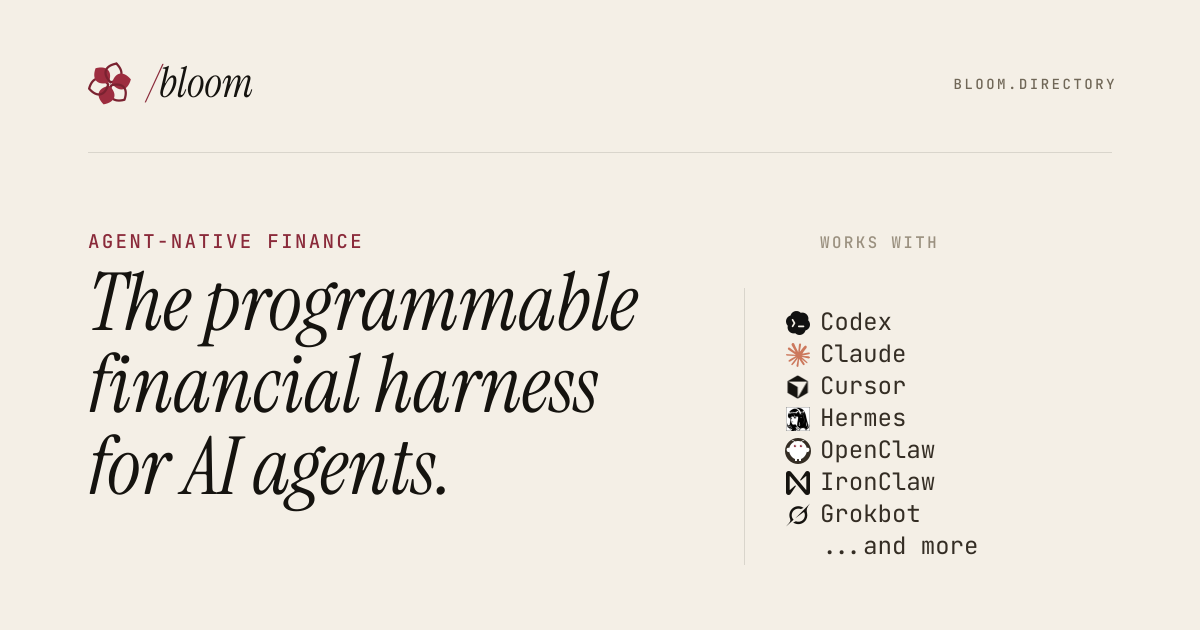
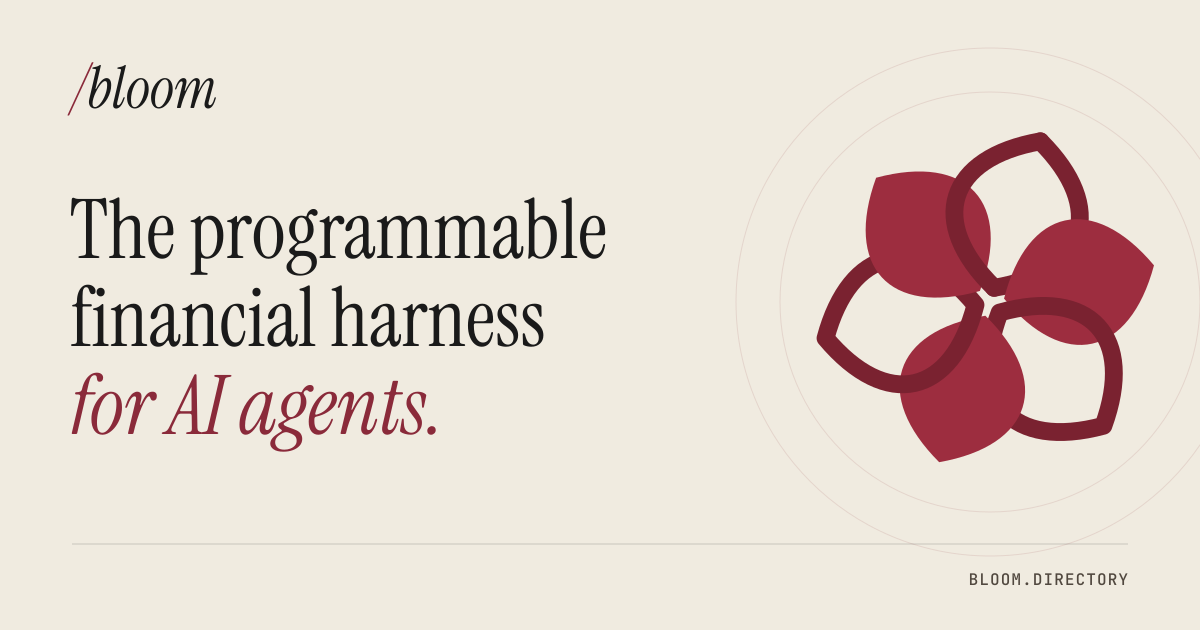
Refine Bloom OG card and document PNG publishing (#4)

diff --git a/README.md b/README.md
@@ -172,13 +172,15 @@ It writes every `.svg`, renders the matching 1024px `.png` for each, and emits t
 
 ### `og/og-image.mjs`
 
-The social-preview (OG) image renderer and staleness checker. [`og/bloom-og.svg`](og/bloom-og.svg) is the artwork proposed for the website social preview in website PR #91; [`og/bloom-og.png`](og/bloom-og.png) is its 1200×630 render, stamped with the SHA-256 of the SVG it came from.
+The social-preview (OG) image renderer and staleness checker. [`og/bloom-og.svg`](og/bloom-og.svg) is the editable source artwork; [`og/bloom-og.png`](og/bloom-og.png) is its 1200×630 render, stamped with the SHA-256 of the SVG it came from.
 
 ```bash
 node og/og-image.mjs                                 # rebuild the PNG from the SVG
 node og/og-image.mjs --check                         # fail if the PNG is stale
 node og/og-image.mjs --in card.svg --out card.png    # any other card
 ```
+
+**Publish only the PNG** in `og:image`, `twitter:image`, and social uploads. The SVG is editing source only. Regenerate the PNG after artwork changes; see [publishing guidance](og/README.md#publishing-use-the-png-only).
 
 No npm dependencies. Rendering needs `rsvg-convert` (`brew install librsvg`) and the three brand faces, which are downloaded once into `og/.font-cache` and pinned by SHA-256. `--font-dir` renders from a local copy instead and `--offline` refuses to fetch. `--check` reads bytes only: no rasteriser, fonts, or network required.
 

diff --git a/og/README.md b/og/README.md
@@ -7,10 +7,22 @@ installing a rasteriser.
 
 | File | What it is |
 |------|-----------|
-| [`bloom-og.svg`](bloom-og.svg) | Artwork proposed for the website social preview in website PR #91 |
+| [`bloom-og.svg`](bloom-og.svg) | Editable source artwork; not for social metadata or uploads |
 | [`bloom-og.png`](bloom-og.png) | 1200×630 render of it, stamped with the SVG's digest |
 | [`og-image.mjs`](og-image.mjs) | The renderer and checker (Node, no npm dependencies) |
 | [`og-image.test.mjs`](og-image.test.mjs) | `node --test og/og-image.test.mjs` |
+
+## Publishing: use the PNG only
+
+Use **`bloom-og.png`** for website `og:image` and `twitter:image` metadata,
+link previews, and social uploads. The **SVG is editable source artwork only**;
+do not publish it as the social preview image.
+
+The 1200×630 PNG preserves crisp type and flat brand colors without lossy
+compression. Keep the SVG for editing, then regenerate the PNG after every
+artwork change and run `node og/og-image.mjs --check` before publishing.
+For website metadata, declare `og:image:type` as `image/png`, dimensions as
+1200×630, and provide descriptive `og:image:alt` text.
 
 ## Usage
 
